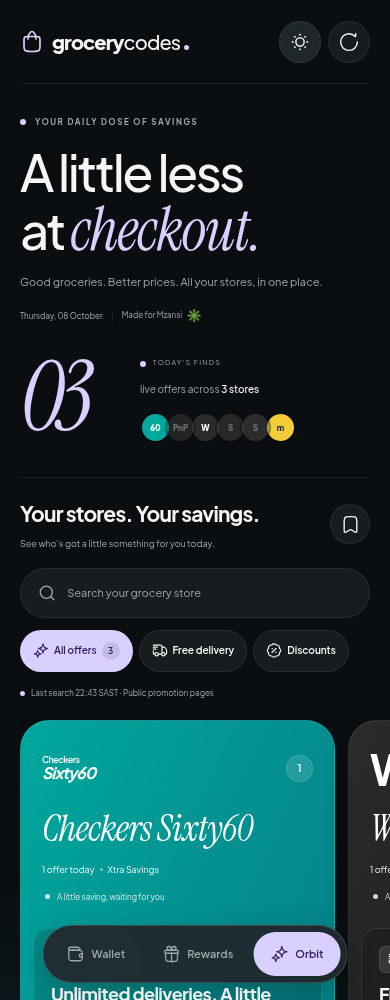
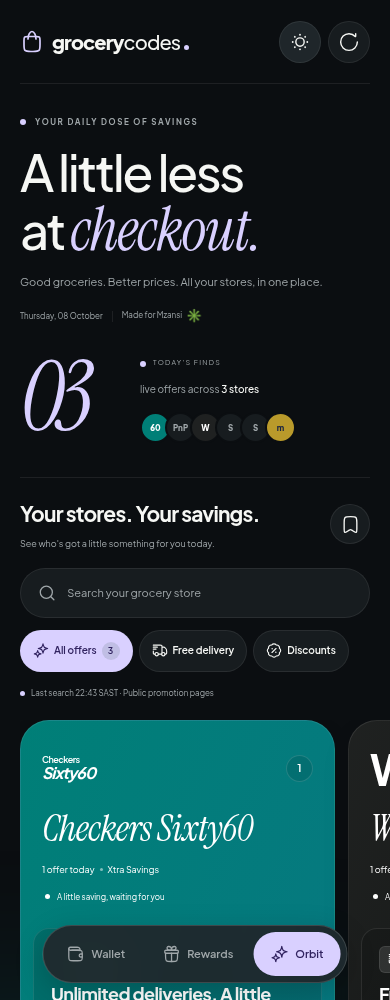
Improve theme contrast and add accessibility coverage

diff --git a/tests/e2e/app.spec.ts b/tests/e2e/app.spec.ts
@@ -1,4 +1,5 @@
 import { expect, test } from "@playwright/test";
+import AxeBuilder from "@axe-core/playwright";
 import { sourceSnapshot } from "../../src/lib/snapshot";
 
 const testOffer = {
@@ -132,4 +133,25 @@ test("supports keyboard dialog dismissal and reduced motion", async ({ page }) =
   expect(
     await page.locator(".ambient-glow").evaluate((node) => getComputedStyle(node).animationName),
   ).toBe("none");
+});
+
+test("passes automated accessibility checks for all designs and themes", async ({ page }) => {
+  await page.emulateMedia({ reducedMotion: "reduce" });
+  for (const design of ["wallet", "rewards", "orbit"]) {
+    await page.goto(`/?design=${design}`);
+    await expect(page.locator(".app")).toHaveAttribute("data-ready", "true");
+    for (const theme of ["dark", "light"]) {
+      const change = page.getByRole("button", { name: `Switch to ${theme} theme` });
+      if (await change.count()) await change.click();
+      await expect(page.locator("html")).toHaveAttribute("data-theme", theme);
+      await page.evaluate(() => document.fonts.ready);
+      const result = await new AxeBuilder({ page })
+        .withTags(["wcag2a", "wcag2aa", "wcag21a", "wcag21aa"])
+        .analyze();
+      expect(result.violations, `${design} / ${theme}`).toEqual([]);
+    }
+  }
+  await page.getByRole("button", { name: "Independent. Made for South Africa." }).click();
+  const dialog = await new AxeBuilder({ page }).withRules(["aria-dialog-name"]).analyze();
+  expect(dialog.violations).toEqual([]);
 });

diff --git a/src/components/grocery-app.tsx b/src/components/grocery-app.tsx
@@ -726,7 +726,10 @@ export function GroceryApp({
                     className={
                       !activeStores.some((active) => active.id === store.id) ? "inactive" : ""
                     }
-                    style={{ background: store.color, color: store.ink }}
+                    style={{
+                      background: `color-mix(in srgb, ${store.color} 76%, #000)`,
+                      color: store.ink,
+                    }}
                   >
                     <span>{store.monogram}</span>
                   </button>
@@ -989,6 +992,7 @@ export function GroceryApp({
       <dialog
         ref={modalRef}
         className="info-dialog"
+        aria-labelledby="info-title"
         onCancel={() => {
           setInfoOpen(false);
           setReport(null);
@@ -1011,7 +1015,9 @@ export function GroceryApp({
           <span className="eyebrow">
             {report ? "HELP KEEP OFFERS USEFUL" : "A LITTLE LESS SEARCHING"}
           </span>
-          <h2>{report ? "Something not quite right?" : "Find a saving. Know the details."}</h2>
+          <h2 id="info-title">
+            {report ? "Something not quite right?" : "Find a saving. Know the details."}
+          </h2>
           {report ? (
             <>
               <p>{report.title}</p>

diff --git a/src/app/globals.css b/src/app/globals.css
@@ -2226,3 +2226,53 @@ h2 {
     margin-bottom: 20px;
   }
 }
+
+/* Keep small labels readable across retailer colours and both themes. */
+.store-card {
+  background: linear-gradient(
+    115deg,
+    color-mix(in srgb, var(--brand) 76%, #000),
+    var(--brand-secondary)
+  );
+}
+.store-card-info > span,
+.store-card-bottomline {
+  opacity: 1;
+}
+.offer-count {
+  background: #00000018;
+}
+.store-avatars button.inactive {
+  background: var(--surface) !important;
+  color: var(--muted) !important;
+  opacity: 1;
+  filter: none;
+}
+.design-rewards .store-card-bottomline,
+.design-rewards .store-card-info > span,
+.design-rewards .offer-criteria {
+  opacity: 1;
+}
+.design-rewards .store-card.no-offers .store-card-header,
+.design-rewards .store-card.no-offers .store-card-bottomline,
+.design-rewards .store-card.no-offers .store-mark {
+  opacity: 1;
+}
+.design-rewards .mark-checkers {
+  color: #00766e;
+}
+[data-theme="dark"] .design-rewards {
+  --accent: #b7caff;
+  --accent-ink: #172b61;
+}
+[data-theme="dark"] .design-rewards .store-mark {
+  color: var(--text);
+}
+@media (max-width: 560px) {
+  .offer-criteria {
+    font-size: 12px;
+  }
+}
+.design-rewards .store-card.no-offers .store-card-info > span {
+  opacity: 1;
+}

diff --git a/README.md b/README.md
@@ -96,7 +96,7 @@ pnpm test:e2e
 
 Browser tests use an isolated server on port 3100 and temporary fixtures in `.data/e2e`. Their coupon is test-only and never enters production sources. Set `PLAYWRIGHT_CHROMIUM_EXECUTABLE_PATH` when using an existing Chromium binary.
 
-Tests cover expiry/freshness, South African dates, deduplication, source boundaries and evidence; mobile and desktop tests cover search, filters, accordion behaviour, copy, saved offers, reports, refresh limits, design selection, themes, dialog keyboard access and reduced motion. A GitHub CI workflow runs these checks on pushes and PRs.
+Tests cover expiry/freshness, South African dates, deduplication, source boundaries and evidence; mobile and desktop tests cover search, filters, accordion behaviour, copy, saved offers, reports, refresh limits, design selection, themes, dialog keyboard access and reduced motion. Automated axe checks scan all three designs in both themes on mobile and desktop, including dialog naming. A GitHub CI workflow runs these checks on pushes and PRs.
 
 ## Design and accessibility
 
